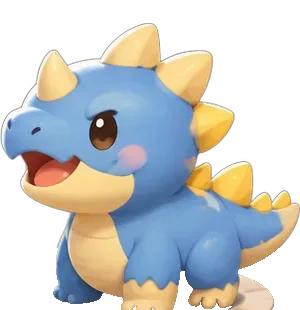
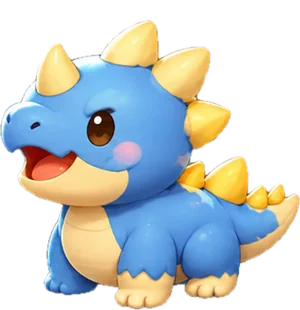
孩子頭像改為 8 種冒險夥伴，並換上家長提供的去背角色圖
- 8 隻角色改用家長提供的去背圖，去除半透明彩色光暈（共 156KB）
- 孩子頭像與冒險夥伴為同一個（child.avatar 存夥伴代號），在孩子設定或冒險大廳更換都會同步
- 舊版表情符號頭像自動轉換：已選過的冒險夥伴優先，否則依順序分配；新孩子預設未使用的夥伴
- 孩子設定的頭像選單改為 8 隻夥伴；下拉選單與標籤只顯示名字
- 新增頭像轉換與同步的單元測試

Claude-Session: https://claude.ai/code/session_01W9KMAgwYtJeSFDy3yxUKRu

diff --git a/js/app.js b/js/app.js
@@ -4,7 +4,7 @@
 
   var CGP = window.CGP;
   /** 每次發布更新時修改，方便在「設定 → 備份」確認手機上是不是新版 */
-  var APP_VERSION = '2026.11.07-3';
+  var APP_VERSION = '2026.11.07-4';
   var store;
   try {
     store = new CGP.Store();
@@ -14,7 +14,6 @@
     return;
   }
 
-  var AVATARS = ['🐻', '🐰', '🐱', '🐶', '🦊', '🐼', '🐯', '🐨', '🦁', '🐸', '🐵', '🐧', '🦄', '🐲', '🐳', '⭐'];
   var BADGES = ['🏪', '🚜', '🎨', '⚽', '🎹', '🚀', '🦖', '🌸', '📚', '🧪', '🍳', '🏰'];
   var COLORS = ['#ffd166', '#ffadad', '#9bd5ff', '#b8f2a8', '#d7b8ff', '#ffc58f'];
   var WEEKDAYS = ['日', '一', '二', '三', '四', '五', '六'];
@@ -149,7 +148,12 @@
   }
 
   function avatar(child, size) {
-    return '<span class="avatar ' + (size || '') + '" style="--c:' + h(child.color) + '">' + h(child.avatar) + '</span>';
+    // 頭像 = 孩子選的冒險夥伴
+    return '<span class="avatar ' + (size || '') + '" style="--c:' + h(child.color) + '">' +
+      '<img src="images/characters/' + h(charIdOf(child)) + '.webp" alt="" width="300" height="310" decoding="async"></span>';
+  }
+  function charIdOf(child) {
+    return CGP.CHARACTER_IDS.indexOf(child.avatar) >= 0 ? child.avatar : CGP.CHARACTER_IDS[0];
   }
   /** 千分位，例如 3,409 */
   function num(n) { return Number(n).toLocaleString('en-US'); }
@@ -476,10 +480,7 @@
 
   // ---------- 金島棋盤（Phase 3） ----------
   var GAME = window.CGPGame;
-  function characterId(child) {
-    var id = store.getPlayer(child.id).character;
-    return GAME.CHARACTERS.some(function (c) { return c.id === id; }) ? id : GAME.DEFAULT_CHARACTER;
-  }
+  function characterId(child) { return charIdOf(child); }
   function charImg(id, cls) {
     var c = GAME.CHARACTERS.find(function (x) { return x.id === id; });
     return '<img class="' + (cls || 'char-img') + '" src="images/characters/' + id + '.webp" alt="' + h(c.name) + '" width="300" height="310" decoding="async">';
@@ -898,7 +899,7 @@
     var chips = '<div class="pts-chips">' +
       '<button class="pts-chip ' + (rp.childId === 'all' ? 'active' : '') + '" data-action="report-child" data-id="all">全部</button>' +
       children.map(function (c) {
-        return '<button class="pts-chip ' + (rp.childId === c.id ? 'active' : '') + '" data-action="report-child" data-id="' + h(c.id) + '">' + h(c.avatar + ' ' + c.name) + '</button>';
+        return '<button class="pts-chip ' + (rp.childId === c.id ? 'active' : '') + '" data-action="report-child" data-id="' + h(c.id) + '">' + h(c.name) + '</button>';
       }).join('') + '</div>';
     var seg = '<div class="seg seg3">' + [['day', '日'], ['week', '週'], ['month', '月']].map(function (x) {
       return '<button class="seg-btn ' + (rp.period === x[0] ? 'active' : '') + '" data-action="report-period" data-kind="' + x[0] + '">' + x[1] + '</button>';
@@ -1164,11 +1165,12 @@
   }
 
   function openChildForm(child) {
-    var c = child || { name: '', avatar: AVATARS[store.getChildren().length % AVATARS.length], color: COLORS[store.getChildren().length % COLORS.length], startPoints: 0, title: '', badge: '', weeklyGoal: 0 };
+    var c = child || { name: '', avatar: store._nextCharacter(), color: COLORS[store.getChildren().length % COLORS.length], startPoints: 0, title: '', badge: '', weeklyGoal: 0 };
     var fields =
       '<label class="field">名稱<input type="text" name="name" maxlength="20" required value="' + h(c.name) + '"></label>' +
-      '<fieldset class="field"><legend>頭像</legend><div class="pick">' + AVATARS.map(function (a) {
-        return '<label class="pick-item"><input type="radio" name="avatar" value="' + a + '"' + (a === c.avatar ? ' checked' : '') + '><span>' + a + '</span></label>';
+      '<fieldset class="field"><legend>頭像（也是冒險夥伴）</legend><div class="pick char-radio">' + GAME.CHARACTERS.map(function (ch) {
+        return '<label class="pick-item char-item"><input type="radio" name="avatar" value="' + ch.id + '"' + (ch.id === c.avatar ? ' checked' : '') + '>' +
+          '<span>' + charImg(ch.id) + '<small>' + h(ch.name) + '</small></span></label>';
       }).join('') + '</div></fieldset>' +
       '<fieldset class="field"><legend>代表色</legend><div class="pick">' + COLORS.map(function (col) {
         return '<label class="pick-item color"><input type="radio" name="color" value="' + col + '"' + (col === c.color ? ' checked' : '') + '><span style="background:' + col + '"></span></label>';
@@ -1202,7 +1204,7 @@
       '<div class="pick-children" data-show-when="scope=some">' +
       (children.length ? children.map(function (c) {
         var on = !all && ids.indexOf(c.id) >= 0;
-        return '<label class="chip"><input type="checkbox" name="childIds" value="' + h(c.id) + '"' + (on ? ' checked' : '') + '> ' + h(c.avatar + ' ' + c.name) + '</label>';
+        return '<label class="chip"><input type="checkbox" name="childIds" value="' + h(c.id) + '"' + (on ? ' checked' : '') + '> ' + h(c.name) + '</label>';
       }).join('') : '<span class="muted small">尚未新增孩子</span>') +
       '</div></fieldset>';
   }
@@ -1297,7 +1299,7 @@
     var fields =
       '<p class="muted small">' + typeLabel + (rec.backfill ? '・補登' : '・記錄於 ' + timeOf(rec.ts)) + (rec.stars ? '・⭐' + rec.stars : '') + '</p>' +
       '<label class="field">孩子<select name="childId" id="rec-child">' + store.getChildren().map(function (c) {
-        return '<option value="' + h(c.id) + '"' + (c.id === rec.childId ? ' selected' : '') + '>' + h(c.avatar + ' ' + c.name) + '</option>';
+        return '<option value="' + h(c.id) + '"' + (c.id === rec.childId ? ' selected' : '') + '>' + h(c.name) + '</option>';
       }).join('') + '</select></label>' +
       '<label class="field">日期<input type="date" name="date" id="rec-date" max="' + store.today() + '" required value="' + rec.date + '"></label>' +
       '<label class="field">' + (neg ? (rec.type === 'reward' ? '扣除點數' : '扣除點數') : '點數') +
@@ -1335,7 +1337,7 @@
     }
     var fields =
       '<label class="field">孩子<select name="childId" id="bf-child">' + children.map(function (c) {
-        return '<option value="' + h(c.id) + '"' + (c.id === childId ? ' selected' : '') + '>' + h(c.avatar + ' ' + c.name) + '</option>';
+        return '<option value="' + h(c.id) + '"' + (c.id === childId ? ' selected' : '') + '>' + h(c.name) + '</option>';
       }).join('') + '</select></label>' +
       '<label class="field">日期<input type="date" name="date" id="bf-date" max="' + today + '" required value="' + defDate + '"></label>' +
       '<label class="field">規則<select name="itemId" id="bf-item">' + ruleOptions(childId) + '</select></label>' +

diff --git a/js/store.js b/js/store.js
@@ -6,7 +6,7 @@
  * 資料格式（schemaVersion 1）：
  * {
  *   schemaVersion: 1,
- *   children: [{ id, name, avatar, color, startPoints, createdAt }],
+ *   children: [{ id, name, avatar, color, startPoints, createdAt }],   // avatar = 冒險夥伴代號（舊版為表情符號，載入時自動轉換）
  *   items:    [{ id, kind: 'bonus'|'penalty'|'task', name, points, childIds: 'all'|[id],
  *                frequency: { type, days?, n? }, custom, stars, createdAt }],
  *   rewards:  [{ id, name, cost, createdAt }],
@@ -44,6 +44,9 @@
   var FREQUENCY_TYPES = ['daily', 'weekdays', 'weekends', 'days', 'weeklyN', 'once'];
   var ITEM_KINDS = ['bonus', 'penalty', 'task'];
   var SCORE_TYPES = ['bonus', 'penalty', 'task']; // 計入今日淨得分的紀錄類型
+  /** 8 種冒險夥伴代號：孩子的頭像與冒險棋子共用（child.avatar） */
+  var CHARACTER_IDS = ['roundear', 'longear', 'horn', 'wing', 'drop', 'sprout', 'flame', 'stone'];
+  function isCharacter(id) { return CHARACTER_IDS.indexOf(id) >= 0; }
 
   // ---------- 工具 ----------
   function uid() {
@@ -257,6 +260,13 @@
       })()
     };
 
+    // 頭像統一為 8 種冒險夥伴：舊版表情符號頭像 → 已選的冒險夥伴，否則依順序分配；並同步到冒險棋子
+    d.children.forEach(function (c, idx) {
+      var p = d.adventure.players[c.id];
+      if (!isCharacter(c.avatar)) c.avatar = p && isCharacter(p.character) ? p.character : CHARACTER_IDS[idx % CHARACTER_IDS.length];
+      if (p) p.character = c.avatar;
+    });
+
     var itemIdSet = new Set(d.items.map(function (i) { return i.id; }));
     var challenges = Array.isArray(d.challenges) ? d.challenges : [];
     d.challenges = challenges.filter(function (c) { return c && c.id; }).map(function (c) {
@@ -349,7 +359,7 @@
     var c = {
       id: uid(),
       name: name,
-      avatar: input.avatar || '🙂',
+      avatar: isCharacter(input.avatar) ? input.avatar : this._nextCharacter(),
       color: input.color || '#ffd166',
       startPoints: toInt(input.startPoints, 0),
       title: String(input.title || '').trim(),
@@ -370,7 +380,12 @@
       if (!name) throw new Error('請輸入孩子名稱');
       c.name = name;
     }
-    if (patch.avatar != null) c.avatar = patch.avatar;
+    if (patch.avatar != null) {
+      if (!isCharacter(patch.avatar)) throw new Error('請選擇一個冒險夥伴當頭像');
+      c.avatar = patch.avatar;
+      var pl = this.data.adventure.players[id];
+      if (pl) pl.character = c.avatar;
+    }
     if (patch.color != null) c.color = patch.color;
     if (patch.startPoints != null) c.startPoints = toInt(patch.startPoints, 0);
     if (patch.title != null) c.title = String(patch.title).trim();
@@ -378,6 +393,12 @@
     if (patch.weeklyGoal != null) c.weeklyGoal = Math.max(0, toInt(patch.weeklyGoal, 0));
     this.save();
     return c;
+  };
+
+  /** 新孩子的預設頭像：還沒被用過的第一隻夥伴 */
+  Store.prototype._nextCharacter = function () {
+    var used = this.data.children.map(function (c) { return c.avatar; });
+    return CHARACTER_IDS.find(function (id) { return used.indexOf(id) < 0; }) || CHARACTER_IDS[this.data.children.length % CHARACTER_IDS.length];
   };
 
   Store.prototype.deleteChild = function (id) {
@@ -1010,7 +1031,7 @@
     src.children.forEach(function (c) {
       var found = next.children.find(function (x) { return x.name === c.name; });
       if (!found) {
-        found = { id: uid(), name: c.name, avatar: c.avatar, color: c.color, startPoints: c.startPoints, createdAt: t };
+        found = { id: uid(), name: c.name, avatar: c.avatar, color: c.color, startPoints: c.startPoints, title: c.title, badge: c.badge, weeklyGoal: c.weeklyGoal, createdAt: t };
         next.children.push(found);
         result.childrenAdded.push(c.name);
       }
@@ -1102,6 +1123,7 @@
     defaultData: defaultData,
     SCHEMA_VERSION: SCHEMA_VERSION,
     levelThreshold: levelThreshold,
+    CHARACTER_IDS: CHARACTER_IDS,
     starsForNet: starsForNet,
     STORAGE_KEY: STORAGE_KEY
   };

diff --git a/js/game.js b/js/game.js
@@ -10,7 +10,7 @@
  * - 背包道具沒用完隔天仍保留
  * - 金島測試版 30 格；走到第 30 格停在終點（多餘步數不走、骰子不浪費：在終點就不能再擲）
  * - 地圖資料結構可擴充為 100 格（tiles 陣列長度即格數）
- * - 角色：8 種冒險夥伴，每個孩子各自選擇；未選或舊版角色代號時使用圓耳獸
+ * - 角色：8 種冒險夥伴，每個孩子各自選擇；與孩子頭像為同一個（child.avatar）
  */
 (function (root) {
   'use strict';
@@ -70,7 +70,10 @@
   // ---------- 狀態 ----------
   Store.prototype.getPlayer = function (childId) {
     var adv = this.data.adventure;
-    if (!adv.players[childId]) adv.players[childId] = { island: 'gold', pos: 0, character: '', bag: { d6: 0, d12: 0, skates: 0 } };
+    if (!adv.players[childId]) {
+      var child = this.getChild(childId);
+      adv.players[childId] = { island: 'gold', pos: 0, character: child ? child.avatar : '', bag: { d6: 0, d12: 0, skates: 0 } };
+    }
     return adv.players[childId];
   };
   Store.prototype.getBoard = function (childId) {
@@ -87,8 +90,8 @@
 
   Store.prototype.setCharacter = function (childId, charId) {
     if (!CHARACTERS.some(function (c) { return c.id === charId; })) throw new Error('沒有這個角色');
-    this.getPlayer(childId).character = charId;
-    this.save();
+    // 頭像與冒險夥伴是同一個：一起更新
+    this.updateChild(childId, { avatar: charId });
   };
 
   Store.prototype._requirePlay = function (childId) {

diff --git a/tests/store.test.js b/tests/store.test.js
@@ -887,3 +887,25 @@ test('角色：8 種冒險夥伴可選，每個孩子獨立；匯出入保留遊
   assert.equal(other.getPlayer(a.id).bag.d6, 1);
   assert.equal(other.getStarBalance(a.id), 15);
 });
+
+test('頭像改為 8 種冒險夥伴：舊版表情符號自動轉換、與冒險棋子同步', () => {
+  // 舊資料：表情符號頭像；第二位孩子已選過冒險夥伴
+  const d = migrate({
+    children: [{ id: 'a', name: 'A', avatar: '🐻' }, { id: 'b', name: 'B', avatar: '🐰' }, { id: 'c', name: 'C', avatar: 'flame' }],
+    adventure: { players: { b: { pos: 3, character: 'stone', bag: {} } } }
+  });
+  assert.equal(d.children[0].avatar, 'roundear', '沒選過 → 依順序分配');
+  assert.equal(d.children[1].avatar, 'stone', '已選過的冒險夥伴當頭像');
+  assert.equal(d.children[2].avatar, 'flame', '已是夥伴代號就保留');
+  assert.equal(d.adventure.players.b.character, 'stone');
+
+  const { store } = makeStore();
+  const x = store.addChild({ name: 'X' });
+  const y = store.addChild({ name: 'Y' });
+  assert.notEqual(x.avatar, y.avatar, '新孩子預設不同夥伴');
+  store.setCharacter(x.id, 'wing');
+  assert.equal(store.getChild(x.id).avatar, 'wing', '換冒險夥伴 → 頭像同步');
+  store.updateChild(y.id, { avatar: 'drop' });
+  assert.equal(store.getPlayer(y.id).character, 'drop', '換頭像 → 冒險夥伴同步');
+  assert.throws(() => store.updateChild(y.id, { avatar: '🐶' }), /冒險夥伴/);
+});

diff --git a/css/style.css b/css/style.css
@@ -967,3 +967,12 @@ img.mascot { width: 64px; height: auto; object-fit: contain; flex: none; }
 @media (max-width: 479px) and (min-width: 390px) { .hero .island { display: block; } }
 @media (max-width: 389px) { .hero .island { display: none; } }
 .hero .island { top: 30px; width: 52px; }
+/* 頭像 = 冒險夥伴圖 */
+.avatar { overflow: hidden; }
+.avatar img { display: block; width: 118%; height: auto; margin-top: 14%; flex: none; }
+.pick.char-radio { display: grid; grid-template-columns: repeat(4, minmax(0, 1fr)); gap: 6px; }
+.pick-item.char-item span { width: 100%; height: auto; display: grid; justify-items: center; gap: 0; padding: 4px 2px 2px; font-size: inherit; border-radius: 14px; }
+.pick-item.char-item img { width: 100%; max-width: 64px; height: auto; display: block; }
+.pick-item.char-item small { font-size: .68rem; font-weight: 700; white-space: nowrap; }
+.avatar { display: inline-grid; place-items: center; }
+.avatar img { width: 100%; height: 100%; margin: 0; object-fit: contain; transform: scale(1.12) translateY(5%); }

diff --git a/sw.js b/sw.js
@@ -1,5 +1,5 @@
 /* 親子集點 Service Worker：離線可用。資料存在 localStorage，不受快取影響。 */
-var CACHE = 'cgp-shell-v13';
+var CACHE = 'cgp-shell-v14';
 var SHELL = [
   './', 'index.html', 'css/style.css', 'js/store.js', 'js/rules-csv.js', 'js/report.js', 'js/game.js', 'js/art.js', 'js/app.js',
   'manifest.webmanifest', 'images/gold-island.webp', 'images/gold-island.jpg', 'images/mascot.webp', 'images/float-castle.webp', 'images/chest.webp',
